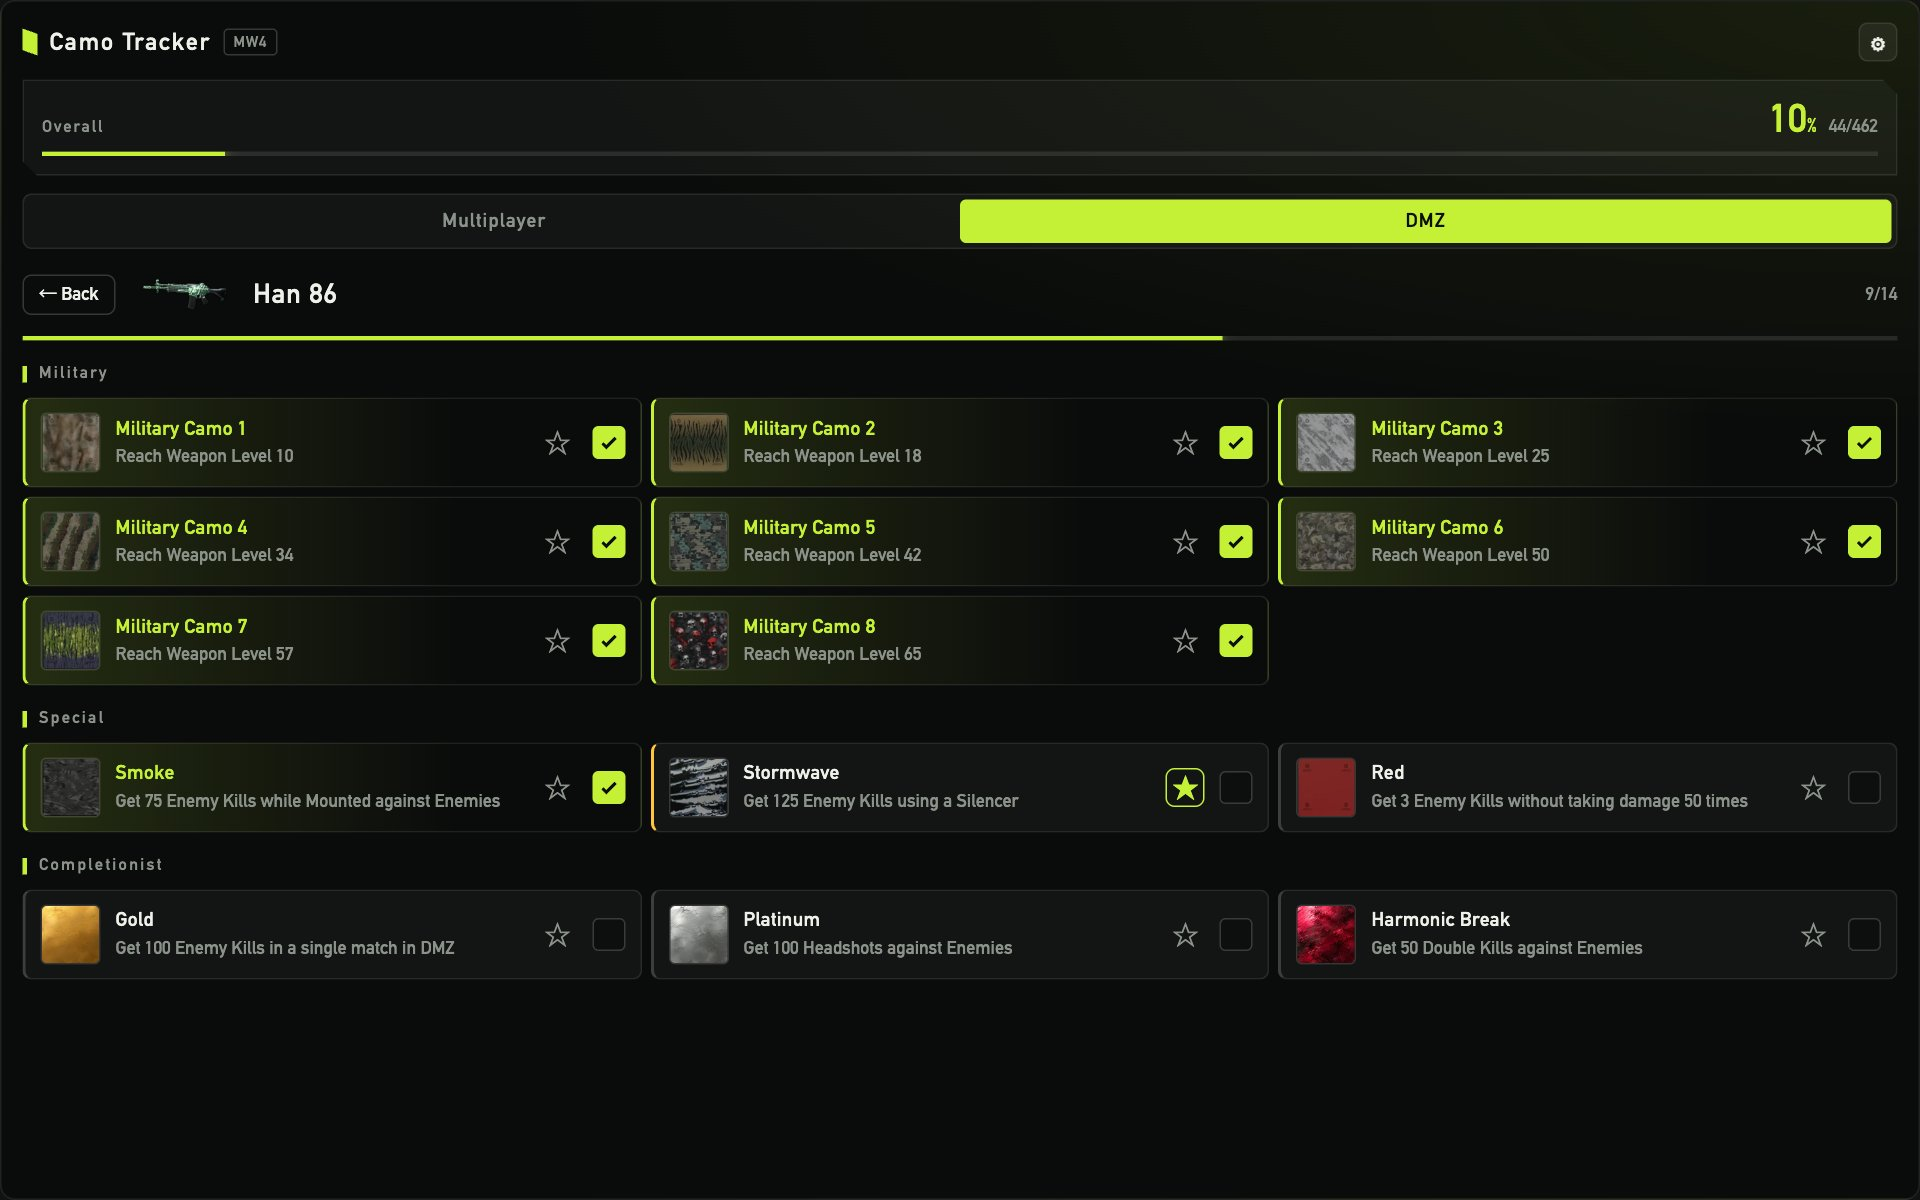
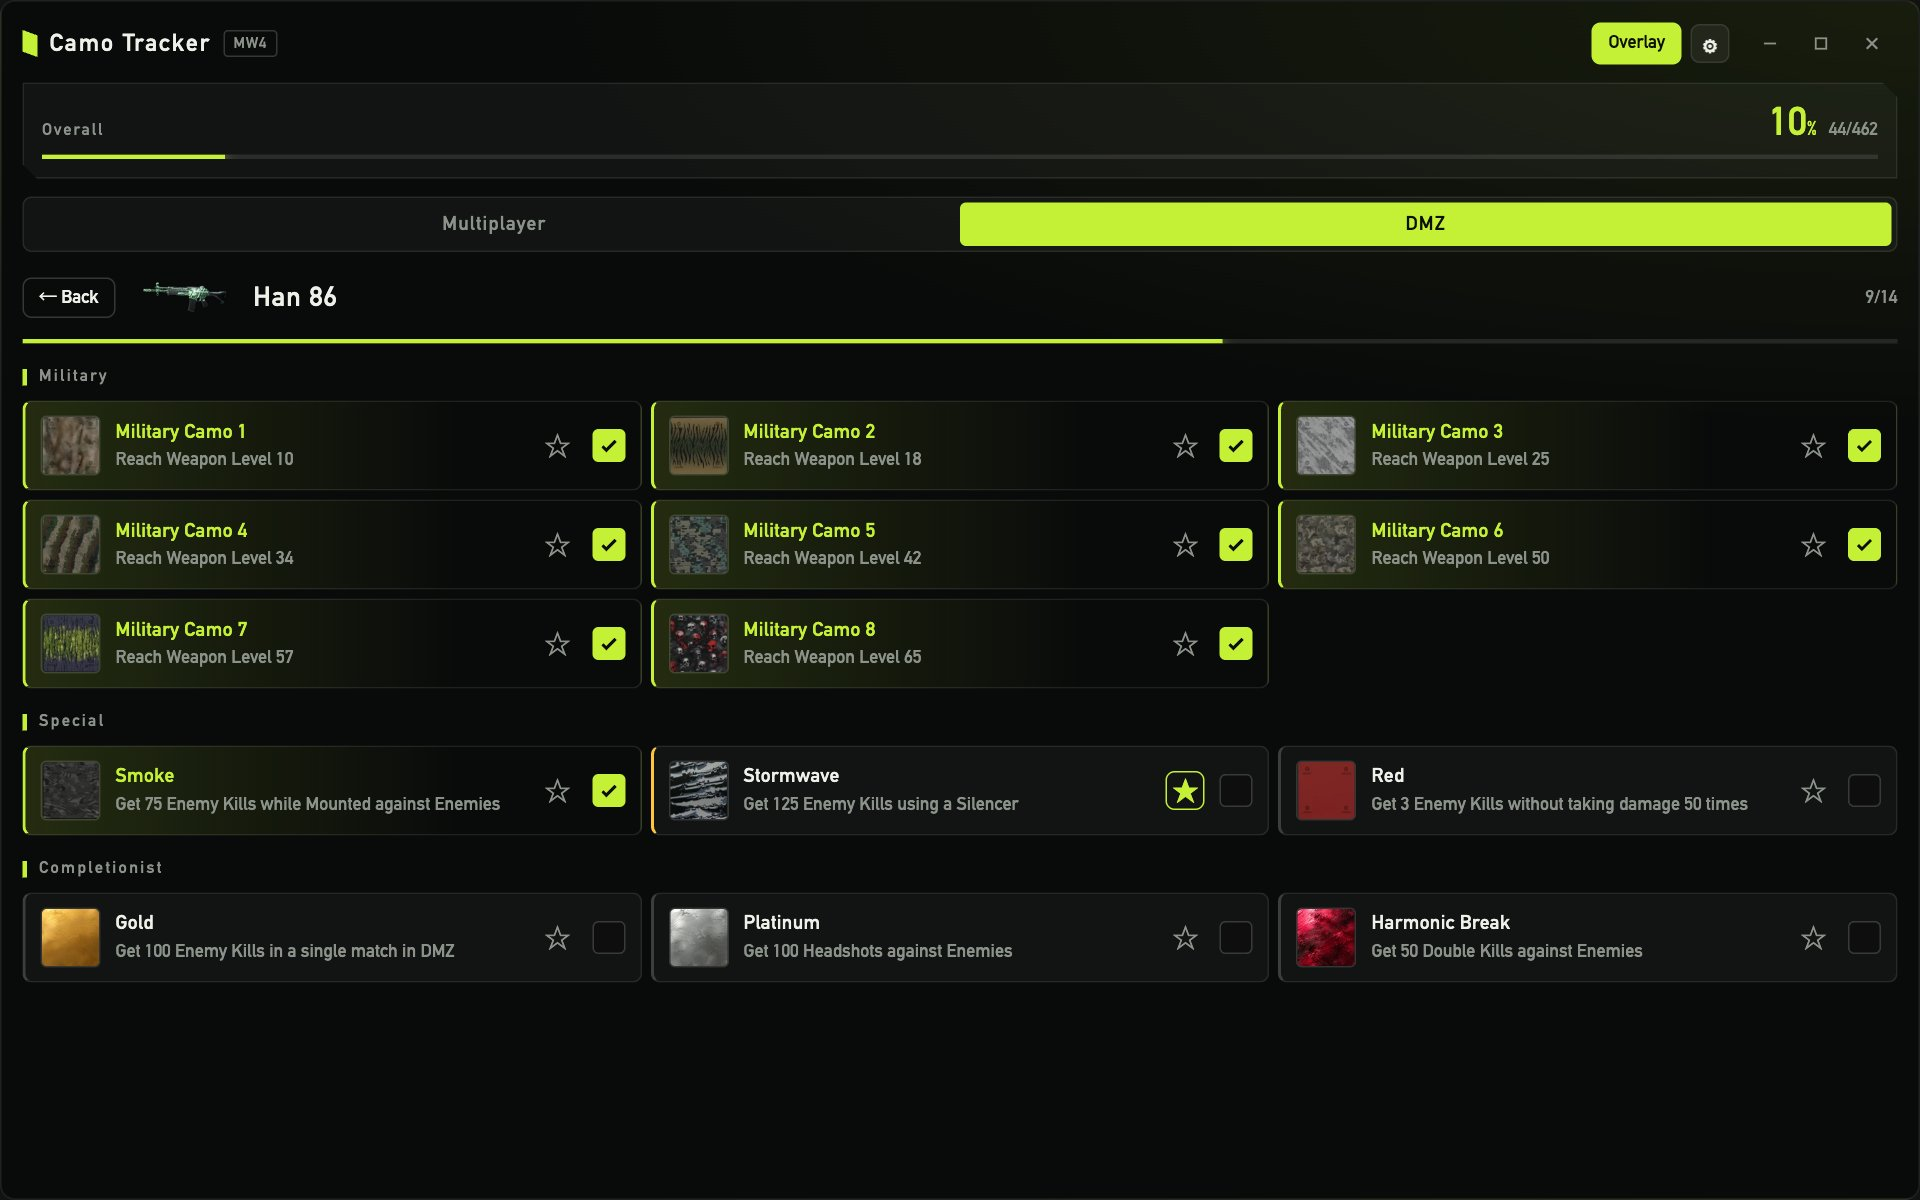
docs: README 改为主窗口 + 独立浮层说明，重拍截图

diff --git a/README.en.md b/README.en.md
@@ -16,13 +16,13 @@
 
 ![The overlay in game](docs/screenshots/overlay-en.jpg)
 
-<p align="center"><sub>The overlay sits on top of the game as a translucent, always-on-top window, with adjustable background opacity and size</sub></p>
+<p align="center"><sub>A separate always-on-top overlay window shows only your favorite challenges; once pinned, clicks pass straight through to the game</sub></p>
 
 ## Features
 
-- **In-game overlay**: a transparent, always-on-top window. `Alt+C` shows or hides it and `Alt+X` toggles click-through, so you never have to leave the game to check progress
-- **Adjustable look**: set background opacity from 30% to 100%; drag the bottom-right corner to resize, and size and position are remembered
-- **Favorite challenges**: pin the camos you're grinding to the home screen; once checked off, each is replaced by that weapon's next camo
+- **Main window + separate overlay**: the main window is a regular desktop window (minimize, maximize, close) where you manage every weapon and camo; the overlay is a small always-on-top window showing only your favorite challenges, so you never have to leave the game
+- **Pin to toggle click-through**: when pinned, the whole overlay passes clicks through and only the pin stays clickable; unpin to check off challenges, move or resize it, switch Multiplayer / DMZ and adjust background opacity
+- **Favorite challenges**: track the camos you're grinding; once checked off, each is replaced by that weapon's next camo
 - **Mode-aware requirements**: Multiplayer and DMZ share completion, and switching modes shows each mode's own challenge
 - **Prerequisite auto-check**: checking a military camo fills in the earlier military camos; checking Gold (or any completionist camo) fills in every earlier camo on that weapon
 - **English & Chinese**: UI, weapon names and challenge text in English or Simplified Chinese
@@ -30,7 +30,7 @@
 - **Online data updates**: when new weapons drop, pull the latest weapons and camos from codmunity in one click
 - **Auto-update**: check for a new version in Settings and install it in place
 
-![Home](docs/screenshots/home-en.jpg)
+![Main window](docs/screenshots/home-en.jpg)
 
 <table>
   <tr>
@@ -39,7 +39,7 @@
   </tr>
   <tr>
     <td align="center">Weapon details: Military / Special / Completionist groups, ☆ to favorite, check when done</td>
-    <td align="center">Settings: language, appearance, shortcuts, data update, image import, app updates</td>
+    <td align="center">Settings: language, overlay appearance, shortcuts, data update, image import, app updates</td>
   </tr>
 </table>
 
@@ -52,17 +52,25 @@
 
 ## Usage
 
+1. In the main window, open a weapon and tap ☆ on the camos you're grinding
+2. Click **Overlay** in the top-right corner of the main window to show the overlay on top of the game (it starts pinned, with click-through on)
+3. To adjust it, click the 📌 pin on the overlay to unpin:
+
+   <img src="docs/screenshots/overlay-unpinned-en.jpg" alt="Unpinned overlay" width="380" />
+
+   Check off a challenge and it moves on to that weapon's next camo. Drag the title to move it, drag the bottom-right corner to resize, switch Multiplayer / DMZ and use `−` / `+` for background opacity. Click the pin again when you're done
+
 | Action | What it does |
 |---|---|
-| `Alt+C` | Show / hide the overlay |
-| `Alt+X` | Toggle click-through: mouse input goes to the game and the overlay shows only your favorite challenges |
-| ☆ | Favorite a camo in weapon details; favorites appear at the top of the home screen |
-| Checkbox | Mark a camo as done; unchecking only affects that camo |
-| Bottom-right corner | Drag to resize the overlay; drag the title bar to move it |
+| Overlay / Close overlay | Button in the main window's top-right corner; shows or hides the overlay window |
+| 📌 Pin | Toggles click-through on the overlay; while pinned only the pin is clickable |
+| `Alt+C` | Show / hide the main window |
+| `Alt+X` | Show / hide the overlay |
 
-- Shortcuts and background opacity can be changed in Settings
+- Shortcuts can be changed or cleared in Settings; the app works fine without them
+- Closing the main window quits the app and closes the overlay too; main window and overlay sizes and positions are remembered separately
 - Run the game in **borderless windowed** or windowed mode; the overlay can't draw over exclusive fullscreen
-- The tracker is just a separate always-on-top window. It **does not inject into the game or read game memory**
+- The tracker is just a separate desktop window. It **does not inject into the game or read game memory**
 
 ## Development
 

diff --git a/README.md b/README.md
@@ -16,13 +16,13 @@
 
 ![游戏中的浮层](docs/screenshots/overlay-zh.jpg)
 
-<p align="center"><sub>浮层以半透明置顶窗口显示在游戏画面上，背景透明度与窗口大小均可调节</sub></p>
+<p align="center"><sub>独立的浮层窗口置顶显示在游戏画面上，只展示收藏的挑战；图钉固定后鼠标点击直接穿透到游戏</sub></p>
 
 ## 功能
 
-- **游戏内浮层**：透明置顶窗口，`Alt+C` 呼出 / 隐藏，`Alt+X` 切换点击穿透，打游戏时不用切屏查进度
-- **外观可调**：背景不透明度 30%–100% 可调；拖动右下角调整窗口大小，大小与位置自动记住
-- **收藏挑战**：把正在刷的迷彩收藏到首页；勾选完成后自动切换到该武器的下一个迷彩
+- **主窗口 + 独立浮层**：主窗口是普通桌面窗口（最小化、最大化、关闭），在这里管理全部武器与迷彩；浮层是单独的置顶小窗口，只显示收藏的挑战，打游戏时不用切屏
+- **图钉控制点击穿透**：固定后整个浮层点击穿透，只有图钉按钮保持可点；解除固定即可勾选完成、移动和缩放浮层，切换多人游戏 / DMZ，调整背景不透明度
+- **收藏挑战**：把正在刷的迷彩收藏起来；勾选完成后自动切换到该武器的下一个迷彩
 - **按模式显示要求**：多人游戏与 DMZ 共享完成状态，切换模式即可看到对应模式的挑战要求
 - **前置迷彩联动**：勾选军事迷彩会补齐之前的军事迷彩，勾选黄金等完成者迷彩会补齐该武器之前的全部迷彩
 - **中英双语**：界面、武器名与挑战描述均支持简体中文 / English
@@ -30,7 +30,7 @@
 - **在线更新数据**：新武器上线后，在设置中一键从 codmunity 拉取最新的武器与迷彩
 - **自动升级**：设置中检查更新，有新版本可直接下载安装
 
-![首页](docs/screenshots/home-zh.jpg)
+![主窗口](docs/screenshots/home-zh.jpg)
 
 <table>
   <tr>
@@ -39,7 +39,7 @@
   </tr>
   <tr>
     <td align="center">武器详情：按军事 / 特殊 / 完成者分组，☆ 收藏、勾选完成</td>
-    <td align="center">设置：语言、外观、快捷键、数据更新、图片导入、检查更新</td>
+    <td align="center">设置：语言、浮层外观、快捷键、数据更新、图片导入、检查更新</td>
   </tr>
 </table>
 
@@ -52,17 +52,25 @@
 
 ## 使用说明
 
+1. 在主窗口的武器详情里点 ☆ 收藏要刷的迷彩
+2. 点主窗口右上角的 **开启浮层**，浮层窗口出现在游戏画面上（默认已固定，点击穿透）
+3. 需要调整时点浮层上的 📌 图钉解除固定：
+
+   <img src="docs/screenshots/overlay-unpinned-zh.jpg" alt="解除固定的浮层" width="380" />
+
+   勾选完成后会自动换成该武器的下一个迷彩；拖动标题移动浮层、拖动右下角缩放，切换多人游戏 / DMZ，`−` / `+` 调整背景不透明度；调整完再点图钉固定
+
 | 操作 | 说明 |
 |---|---|
-| `Alt+C` | 显示 / 隐藏浮层 |
-| `Alt+X` | 切换点击穿透：开启后鼠标操作穿透到游戏，浮层只显示「收藏的挑战」 |
-| ☆ | 在武器详情中收藏迷彩，收藏的迷彩显示在首页最上方 |
-| 勾选框 | 标记迷彩完成；取消勾选只影响该迷彩本身 |
-| 右下角拖动 | 调整浮层窗口大小；拖动顶部标题栏移动位置 |
+| 开启浮层 / 关闭浮层 | 主窗口右上角按钮，显示或隐藏浮层窗口 |
+| 📌 图钉 | 浮层上切换点击穿透；固定时只有图钉可点 |
+| `Alt+C` | 显示 / 隐藏主窗口 |
+| `Alt+X` | 显示 / 隐藏浮层 |
 
-- 快捷键与背景不透明度可在设置中修改
+- 快捷键可在设置中修改或清空，不设置也不影响使用
+- 关闭主窗口即退出程序，浮层会一并关闭；主窗口与浮层的大小和位置会分别记住
 - 游戏需使用 **无边框窗口化** 或窗口化，独占全屏下浮层无法覆盖在游戏画面上
-- 本工具只是一个独立的置顶窗口，**不注入游戏进程、不读取游戏内存**
+- 本工具只是独立的桌面窗口，**不注入游戏进程、不读取游戏内存**
 
 ## 开发
 
